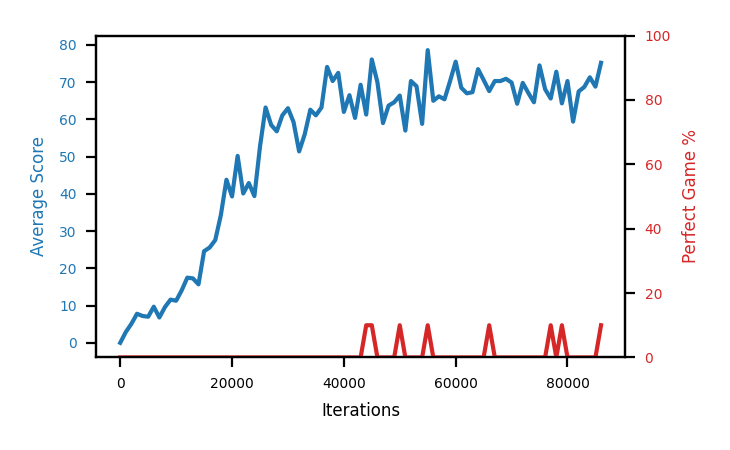
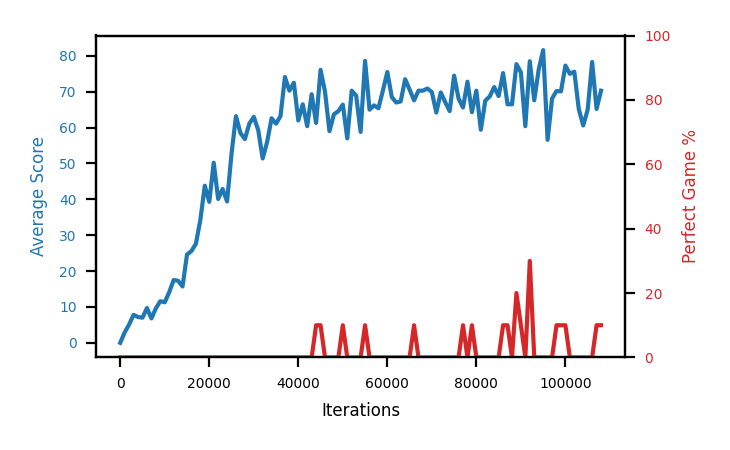
Reassess n-step on trajectory, swap b1b out for baseline and n=2 arms
b1c-nstep3 looked like the clear loser at matched steps and an earlier read
called it that. Judged on trajectory it is the batch best: score by 40k
block runs 5.1, 26.9, 26.8, 37.4, 49.7, 57.3, and at 201k it was still
gaining +10.3 per 20 evals while b1a-base had gone flat at ~69. So n-step is
not worse, it is slower but more consistently improving, which is closer to
what this investigation wants than sprinting to a plateau. It has produced
no perfect game yet, which is the one real mark against it.

Lesson recorded in the doc: do not judge an arm at matched steps alone.
Matched-step comparison is right for fairness but blind to momentum, and
momentum was the signal that mattered.

Stop criteria now encode judging trajectory over level: keep a run while
either perfect rate or score is still climbing, check both because they
disagree, cap promising-but-slow runs near 4 hours and record them as
"promising but too slow" rather than as failures.

Checking both trends decided which arm to stop. b1a-base has a flat score
but a perfect rate still climbing 1.7 -> 3.3, so it is improving on the
actual objective and stays. b1b-tgt200 was rising only slowly on score with
a flat perfect rate and its hypothesis was already answered, so it stopped
at ~104k; it can be resumed with SNEK_TARGET_UPDATE_PERIOD=200.

The human stopped their train run, freeing a second slot. Now running:
b1a-base, b1c-nstep3, b2a-base2 (baseline repeat), b2b-nstep2. n=2 went in
[…]

diff --git a/snek2/hyperparamTuning.md b/snek2/hyperparamTuning.md
@@ -24,6 +24,26 @@ needs roughly **1M iterations / 4-5 hours** of training and then plateaus around
   iterations and then the slope turns steep. A config that looks dead at 20k may
   not be. Do not judge a config on a short run alone.
 
+### When to keep a run going, and when to stop it
+
+Judge on **trajectory, not absolute level**. A run is worth continuing while
+*either* its perfect-game rate *or* its average score is still climbing — both are
+valuable, and a config that is behind but rising may overtake one that plateaued.
+Check both: they can disagree, and have.
+
+Concretely, compare a trailing window against the window before it (last 20 evals
+vs the previous 20 for score, last 30 vs previous 30 for the coarser perfect-game
+rate). Stop an arm when neither is rising, or when its remaining question is
+already answered.
+
+Cap a promising-but-slow run at roughly **4 hours**, then stop it and record it as
+**"promising but too slow"** rather than as a failure — that is a genuinely
+different verdict from "does not learn", and worth keeping distinct.
+
+Stopping is cheap and reversible: relaunching the same policy name continues its
+graph and checkpoint. Always re-supply the same `SNEK_*` overrides when resuming,
+or the config silently changes mid-run.
+
 Because of that, avoid the final eval as a metric. Prefer, in rough order of
 usefulness:
 
@@ -149,10 +169,12 @@ know what is in flight and might have been terminated.
 
 | policy | config change | started | status |
 |---|---|---|---|
-| `train` | human-started, committed defaults | before this work | **running, do not touch** |
-| `b1a-base` | control: committed defaults | 2026-07-26 14:15 | running, target ~120k steps |
-| `b1b-tgt200` | `TARGET_UPDATE_PERIOD=200` | 2026-07-26 14:15 | running, target ~120k steps |
-| `b1c-nstep3` | `N_STEP_UPDATE=3` | 2026-07-26 14:15 | running, target ~120k steps |
+| `train` | human-started, committed defaults | before this work | **stopped by the human ~15:15**, freeing a slot. Do not restart it; it is theirs |
+| `b1a-base` | control: committed defaults | 14:15 | running. Score flat at ~69 since ~50k, but perfect-game rate is still climbing (1.7 -> 3.3), so keep going |
+| `b1c-nstep3` | `N_STEP_UPDATE=3` | 14:15 | running. Slowest arm but the only one with strong score momentum (+10.3 over last 20 evals at 201k). Cap ~18:15, then label "promising but too slow" if still short of the others |
+| `b2a-base2` | baseline repeat #2 | 15:10 | running. Needed to establish baseline spread |
+| `b2b-nstep2` | `N_STEP_UPDATE=2` | 15:16 | running. Took the slot the human freed. Launched now rather than later so it shares machine conditions with `b1c-nstep3` (n=3) and the two are directly comparable |
+| `b1b-tgt200` | `TARGET_UPDATE_PERIOD=200` | 14:15 | **stopped 15:10 at ~104k.** Score rising only slowly (+1.8), perfect rate flat (1.0 -> 1.0), and its hypothesis was already answered. Resume with `SNEK_TARGET_UPDATE_PERIOD=200` if worth revisiting |
 
 That is 4 trainers, i.e. the budget is full — do not launch more until one stops.
 Logs for this batch are in `/Users/tony_wang/.claude/jobs/f3cb1855/tmp/b1{a,b,c}.log`,
@@ -225,7 +247,8 @@ sits in `snek2/` while the artifacts are in `snek2/runs/`.
 
 ![b1b-tgt200](runs/b1b-tgt200.png)
 
-**b1c-nstep3** — slower throughout, no perfect games even by 165k:
+**b1c-nstep3** — slowest to rise and no perfect games yet, but still climbing
+steadily at 200k when the others had flattened:
 
 ![b1c-nstep3](runs/b1c-nstep3.png)
 
@@ -266,12 +289,34 @@ least at this horizon, while "less frequent target updates learn faster early"
 looks worth pursuing. Try 50 and 500 to see whether there's a trend or this is
 noise.
 
-#### `N_STEP_UPDATE=3`: clearly slower per step
+#### `N_STEP_UPDATE=3`: slower per step, but the best trajectory of the batch
 
-Much worse at matched steps, and even after running to 161k (last-5 50.6, peak
-66.3) it stayed below where the baseline was at 68k. It did have the lowest
-drawdown, but that is mostly an artefact of never getting high enough to fall far.
-Deprioritize n-step; if revisited, try n=2 rather than 3.
+At matched steps it looks like the clear loser, and an early read of this batch
+called it exactly that. Judged on trajectory instead it is the most interesting arm
+in the batch. Score by 40k-step block:
+
+| steps | mean score | max |
+|---|---|---|
+| 0-40k | 5.1 | 16.2 |
+| 40-80k | 26.9 | 38.1 |
+| 80-120k | 26.8 | 35.4 |
+| 120-160k | 37.4 | 66.3 |
+| 160-200k | 49.7 | 70.1 |
+| 200-240k | 57.3 | 67.5 |
+
+Near-monotonic, and at 201k it was still gaining +10.3 per 20 evals while
+`b1a-base` had gone flat at ~69. It has produced no perfect game yet, which is the
+one real mark against it.
+
+So n-step is not "worse", it is **slower but more consistently improving** — which
+is arguably closer to what this investigation wants than a config that sprints to a
+plateau. Whether it overtakes the baseline is an open question; that is what the
+4-hour cap is for. If it plateaus below ~70 it is merely slow; if it keeps climbing
+past that it is the most promising lead so far.
+
+Lesson recorded: **do not judge an arm at matched steps alone.** Matched-step
+comparison is right for fairness but blind to momentum, and momentum was the
+signal that mattered here.
 
 #### Neither arm actually showed catastrophic forgetting
 
@@ -330,7 +375,12 @@ commitment.
    perfect games by ~44k, which contradicts the premise of the whole exercise.
    Until the baseline's spread is known, no arm can be judged against it. These
    also test whether the early perfect games reproduce.
-5. **`TARGET_UPDATE_PERIOD=50` and `=500`.** Batch 1 hinted that longer periods
+5. **`N_STEP_UPDATE=2`** — running now as `b2b-nstep2`. n=3 is the batch's best
+   trajectory but too slow to reach a perfect game; n=2 tests whether the stability
+   survives at a faster rate. If n=2 lands between n=1 and n=3 on both speed and
+   steadiness, that is a clean monotonic trend and the knob is real rather than
+   noise. Worth trying n=5 afterwards to find where it turns over.
+6. **`TARGET_UPDATE_PERIOD=50` and `=500`.** Batch 1 hinted that longer periods
    learn faster early even though they didn't reduce drawdown. Two more points
    establish whether that's a trend or noise.
 6. **`LEARNING_RATE=1e-4`** *only after* the target-update fix. Currently 1e-5 is

diff --git a/snek2/runs/b1c-nstep3.md b/snek2/runs/b1c-nstep3.md
@@ -4,7 +4,7 @@
 
 Blue is average score (food eaten) on the left axis, red is perfect-game percentage on the right.
 
-Latest eval: step 188000, avg score 70.1, perfect games 0%.
+Latest eval: step 217000, avg score 54.8, perfect games 0%.
 
 ## Config
 
@@ -34,7 +34,7 @@ Latest eval: step 188000, avg score 70.1, perfect games 0%.
 
 ## Evals
 
-189 evals so far. Full series in [`b1c-nstep3_evals.json`](b1c-nstep3_evals.json).
+218 evals so far. Full series in [`b1c-nstep3_evals.json`](b1c-nstep3_evals.json).
 
 | step | avg score | trailing avg | min score | max score | avg reward | perfect % | epsilon |
 |---|---|---|---|---|---|---|---|
@@ -42,15 +42,15 @@ Latest eval: step 188000, avg score 70.1, perfect games 0%.
 | 1000 | 1.8 | 1.8 | 0 | 5/95 | -1.0 | 0 | 0.4 |
 | 2000 | 0.0 | 0.9 | 0 | 0/95 | -5.005 | 0 | 0.4 |
 | ... | | | | | | | |
-| 177000 | 54.9 | 48.72 | 30 | 80/95 | 49.564 | 0 | 0.001 |
-| 178000 | 44.0 | 46.18 | 20 | 66/95 | 38.743 | 0 | 0.001 |
-| 179000 | 53.8 | 46.9 | 17 | 82/95 | 48.413 | 0 | 0.001 |
-| 180000 | 34.7 | 47.12 | 13 | 57/95 | 29.496 | 0 | 0.001 |
-| 181000 | 61.1 | 49.7 | 20 | 93/95 | 55.567 | 0 | 0.001 |
-| 182000 | 48.0 | 48.32 | 22 | 84/95 | 42.645 | 0 | 0.001 |
-| 183000 | 48.6 | 49.24 | 14 | 74/95 | 43.755 | 0 | 0.001 |
-| 184000 | 58.7 | 50.22 | 30 | 80/95 | 53.676 | 0 | 0.001 |
-| 185000 | 49.2 | 53.12 | 22 | 78/95 | 43.872 | 0 | 0.001 |
-| 186000 | 60.2 | 52.94 | 22 | 87/95 | 54.772 | 0 | 0.001 |
-| 187000 | 49.1 | 53.16 | 16 | 77/95 | 43.757 | 0 | 0.001 |
-| 188000 | 70.1 | 57.46 | 44 | 85/95 | 64.601 | 0 | 0.001 |
+| 206000 | 60.2 | 61.18 | 33 | 95/95 | 65.148 | 10 | 0.001 |
+| 207000 | 57.9 | 60.5 | 15 | 84/95 | 52.496 | 0 | 0.001 |
+| 208000 | 60.6 | 60.6 | 29 | 86/95 | 55.197 | 0 | 0.001 |
+| 209000 | 49.0 | 57.82 | 18 | 72/95 | 43.728 | 0 | 0.001 |
+| 210000 | 60.2 | 57.58 | 28 | 80/95 | 54.837 | 0 | 0.001 |
+| 211000 | 73.6 | 60.26 | 49 | 92/95 | 68.407 | 0 | 0.001 |
+| 212000 | 55.0 | 59.68 | 6 | 78/95 | 49.532 | 0 | 0.001 |
+| 213000 | 67.7 | 61.1 | 44 | 83/95 | 62.144 | 0 | 0.001 |
+| 214000 | 71.7 | 65.64 | 36 | 93/95 | 66.917 | 0 | 0.001 |
+| 215000 | 65.4 | 66.68 | 34 | 82/95 | 59.894 | 0 | 0.001 |
+| 216000 | 71.7 | 66.3 | 48 | 93/95 | 66.201 | 0 | 0.001 |
+| 217000 | 54.8 | 66.26 | 26 | 78/95 | 49.392 | 0 | 0.001 |

diff --git a/snek2/runs/b1b-tgt200.md b/snek2/runs/b1b-tgt200.md
@@ -4,7 +4,7 @@
 
 Blue is average score (food eaten) on the left axis, red is perfect-game percentage on the right.
 
-Latest eval: step 92000, avg score 59.9, perfect games 0%.
+Latest eval: step 106000, avg score 68.7, perfect games 0%.
 
 ## Config
 
@@ -34,7 +34,7 @@ Latest eval: step 92000, avg score 59.9, perfect games 0%.
 
 ## Evals
 
-93 evals so far. Full series in [`b1b-tgt200_evals.json`](b1b-tgt200_evals.json).
+107 evals so far. Full series in [`b1b-tgt200_evals.json`](b1b-tgt200_evals.json).
 
 | step | avg score | trailing avg | min score | max score | avg reward | perfect % | epsilon |
 |---|---|---|---|---|---|---|---|
@@ -42,15 +42,15 @@ Latest eval: step 92000, avg score 59.9, perfect games 0%.
 | 1000 | 1.1 | 1.1 | 0 | 3/95 | -3.915 | 0 | 0.4 |
 | 2000 | 1.8 | 1.45 | 0 | 4/95 | -1.004 | 0 | 0.4 |
 | ... | | | | | | | |
-| 81000 | 58.1 | 59.16 | 34 | 86/95 | 53.068 | 0 | 0.001 |
-| 82000 | 63.2 | 57.24 | 51 | 71/95 | 58.54 | 0 | 0.001 |
-| 83000 | 64.4 | 59.2 | 27 | 89/95 | 59.794 | 0 | 0.001 |
-| 84000 | 73.3 | 63.48 | 38 | 87/95 | 68.529 | 0 | 0.001 |
-| 85000 | 55.7 | 62.94 | 35 | 69/95 | 50.781 | 0 | 0.001 |
-| 86000 | 68.8 | 65.08 | 50 | 93/95 | 64.129 | 0 | 0.001 |
-| 87000 | 66.2 | 65.68 | 55 | 78/95 | 61.125 | 0 | 0.001 |
-| 88000 | 63.6 | 65.52 | 36 | 76/95 | 59.017 | 0 | 0.001 |
-| 89000 | 71.1 | 65.08 | 56 | 81/95 | 66.327 | 0 | 0.001 |
-| 90000 | 70.5 | 68.04 | 41 | 90/95 | 65.444 | 0 | 0.001 |
-| 91000 | 66.8 | 67.64 | 38 | 95/95 | 72.465 | 10 | 0.001 |
-| 92000 | 59.9 | 66.38 | 22 | 86/95 | 55.322 | 0 | 0.001 |
+| 95000 | 65.7 | 66.62 | 26 | 95/95 | 71.099 | 10 | 0.001 |
+| 96000 | 61.5 | 65.56 | 39 | 81/95 | 57.301 | 0 | 0.001 |
+| 97000 | 62.1 | 66.0 | 30 | 89/95 | 57.533 | 0 | 0.001 |
+| 98000 | 50.4 | 61.78 | 23 | 86/95 | 45.076 | 0 | 0.001 |
+| 99000 | 57.2 | 59.38 | 26 | 76/95 | 52.193 | 0 | 0.001 |
+| 100000 | 64.9 | 59.22 | 48 | 95/95 | 69.832 | 10 | 0.001 |
+| 101000 | 64.0 | 59.72 | 48 | 89/95 | 58.991 | 0 | 0.001 |
+| 102000 | 54.8 | 58.26 | 26 | 74/95 | 50.348 | 0 | 0.001 |
+| 103000 | 68.1 | 61.8 | 28 | 89/95 | 64.738 | 0 | 0.001 |
+| 104000 | 60.1 | 62.38 | 22 | 89/95 | 55.512 | 0 | 0.001 |
+| 105000 | 60.8 | 61.56 | 14 | 91/95 | 55.828 | 0 | 0.001 |
+| 106000 | 68.7 | 62.5 | 48 | 92/95 | 64.507 | 0 | 0.001 |

diff --git a/snek2/runs/b1a-base.md b/snek2/runs/b1a-base.md
@@ -4,7 +4,7 @@
 
 Blue is average score (food eaten) on the left axis, red is perfect-game percentage on the right.
 
-Latest eval: step 86000, avg score 75.2, perfect games 10%.
+Latest eval: step 108000, avg score 70.3, perfect games 10%.
 
 ## Config
 
@@ -34,7 +34,7 @@ Latest eval: step 86000, avg score 75.2, perfect games 10%.
 
 ## Evals
 
-87 evals so far. Full series in [`b1a-base_evals.json`](b1a-base_evals.json).
+109 evals so far. Full series in [`b1a-base_evals.json`](b1a-base_evals.json).
 
 | step | avg score | trailing avg | min score | max score | avg reward | perfect % | epsilon |
 |---|---|---|---|---|---|---|---|
@@ -42,15 +42,15 @@ Latest eval: step 86000, avg score 75.2, perfect games 10%.
 | 1000 | 2.9 | 2.9 | 0 | 8/95 | -2.155 | 0 | 0.4 |
 | 2000 | 5.1 | 4.0 | 0 | 12/95 | 0.08 | 0 | 0.4 |
 | ... | | | | | | | |
-| 75000 | 74.5 | 68.04 | 53 | 93/95 | 70.394 | 0 | 0.001 |
-| 76000 | 68.1 | 68.82 | 7 | 91/95 | 64.166 | 0 | 0.001 |
-| 77000 | 65.6 | 67.98 | 36 | 95/95 | 71.279 | 10 | 0.001 |
-| 78000 | 72.8 | 69.12 | 28 | 87/95 | 69.666 | 0 | 0.001 |
-| 79000 | 64.3 | 69.06 | 30 | 95/95 | 69.564 | 10 | 0.001 |
-| 80000 | 70.3 | 68.22 | 48 | 86/95 | 66.771 | 0 | 0.001 |
-| 81000 | 59.4 | 66.48 | 35 | 89/95 | 56.791 | 0 | 0.001 |
-| 82000 | 67.5 | 66.86 | 38 | 85/95 | 63.081 | 0 | 0.001 |
-| 83000 | 68.7 | 66.04 | 42 | 84/95 | 65.183 | 0 | 0.001 |
-| 84000 | 71.3 | 67.44 | 48 | 93/95 | 66.482 | 0 | 0.001 |
-| 85000 | 68.8 | 67.14 | 40 | 91/95 | 64.756 | 0 | 0.001 |
-| 86000 | 75.2 | 70.3 | 53 | 95/95 | 81.556 | 10 | 0.001 |
+| 97000 | 68.1 | 70.02 | 42 | 93/95 | 63.446 | 0 | 0.0 |
+| 98000 | 70.2 | 70.54 | 13 | 95/95 | 76.651 | 10 | 0.0 |
+| 99000 | 70.1 | 69.32 | 52 | 95/95 | 75.407 | 10 | 0.0 |
+| 100000 | 77.3 | 68.46 | 42 | 95/95 | 83.672 | 10 | 0.0 |
+| 101000 | 75.0 | 72.14 | 32 | 93/95 | 71.1 | 0 | 0.0 |
+| 102000 | 75.6 | 73.64 | 53 | 89/95 | 72.047 | 0 | 0.0 |
+| 103000 | 65.2 | 72.64 | 19 | 84/95 | 62.217 | 0 | 0.0 |
+| 104000 | 60.6 | 70.74 | 25 | 86/95 | 57.063 | 0 | 0.0 |
+| 105000 | 65.0 | 68.28 | 46 | 86/95 | 59.852 | 0 | 0.0 |
+| 106000 | 78.3 | 68.94 | 64 | 90/95 | 72.627 | 0 | 0.0 |
+| 107000 | 65.2 | 66.86 | 40 | 95/95 | 70.997 | 10 | 0.0 |
+| 108000 | 70.3 | 67.88 | 26 | 95/95 | 75.912 | 10 | 0.0 |

diff --git a/snek2/runs/b2a-base2.md b/snek2/runs/b2a-base2.md
@@ -1,0 +1,56 @@
+# b2a-base2
+
+![b2a-base2 progress](b2a-base2.png)
+
+Blue is average score (food eaten) on the left axis, red is perfect-game percentage on the right.
+
+Latest eval: step 24000, avg score 54.8, perfect games 0%.
+
+## Config
+
+| setting | value |
+|---|---|
+| policy_name | b2a-base2 |
+| learning_rate | 1e-05 |
+| batch_size | 128 |
+| discount | 0.99 |
+| target_update_period | 8 |
+| target_update_tau | 1.0 |
+| gradient_clipping | none |
+| n_step_update | 1 |
+| initial_epsilon | 0.4 |
+| fc_layer_params | (50, 100, 50) |
+| replay_buffer | cpprb prioritized, capacity 100000 |
+| priority_exponent (alpha) | 0.6 |
+| importance_sampling_beta | 0.4 -> 1.0 over 1000000 steps |
+| initial_populate_steps | 1000 |
+| initialize_with_schmid | False |
+| eval | 10 episodes every 1000 steps |
+| grid | 9x9, max possible score 95 |
+| DEATH_REWARD | -5.0 |
+| FOOD_REWARD | 1.0 |
+| FOOD_DISTANCE_REWARD | 0.001 |
+| eval_only | False |
+
+## Evals
+
+25 evals so far. Full series in [`b2a-base2_evals.json`](b2a-base2_evals.json).
+
+| step | avg score | trailing avg | min score | max score | avg reward | perfect % | epsilon |
+|---|---|---|---|---|---|---|---|
+| 0 | 0.0 | 0.0 | 0 | 0/95 | -5.002 | 0 | 0.4 |
+| 1000 | 0.4 | 0.4 | 0 | 1/95 | -0.153 | 0 | 0.4 |
+| 2000 | 1.1 | 0.75 | 0 | 4/95 | 0.543 | 0 | 0.4 |
+| ... | | | | | | | |
+| 13000 | 14.9 | 14.0 | 10 | 23/95 | 9.866 | 0 | 0.1 |
+| 14000 | 16.2 | 14.28 | 10 | 22/95 | 11.166 | 0 | 0.1 |
+| 15000 | 16.8 | 15.26 | 8 | 24/95 | 11.767 | 0 | 0.1 |
+| 16000 | 18.5 | 16.3 | 13 | 27/95 | 13.887 | 0 | 0.1 |
+| 17000 | 18.7 | 17.02 | 5 | 28/95 | 14.077 | 0 | 0.1 |
+| 18000 | 19.8 | 18.0 | 10 | 27/95 | 15.143 | 0 | 0.1 |
+| 19000 | 26.1 | 19.98 | 11 | 35/95 | 20.985 | 0 | 0.05 |
+| 20000 | 40.2 | 24.66 | 28 | 50/95 | 34.901 | 0 | 0.05 |
+| 21000 | 42.2 | 29.4 | 9 | 68/95 | 37.215 | 0 | 0.05 |
+| 22000 | 52.9 | 36.24 | 7 | 84/95 | 48.231 | 0 | 0.01 |
+| 23000 | 45.2 | 41.32 | 2 | 76/95 | 40.248 | 0 | 0.01 |
+| 24000 | 54.8 | 47.06 | 18 | 80/95 | 49.385 | 0 | 0.01 |

diff --git a/snek2/runs/b2b-nstep2.md b/snek2/runs/b2b-nstep2.md
@@ -1,0 +1,45 @@
+# b2b-nstep2
+
+![b2b-nstep2 progress](b2b-nstep2.png)
+
+Blue is average score (food eaten) on the left axis, red is perfect-game percentage on the right.
+
+Latest eval: step 4000, avg score 5.2, perfect games 0%.
+
+## Config
+
+| setting | value |
+|---|---|
+| policy_name | b2b-nstep2 |
+| learning_rate | 1e-05 |
+| batch_size | 128 |
+| discount | 0.99 |
+| target_update_period | 8 |
+| target_update_tau | 1.0 |
+| gradient_clipping | none |
+| n_step_update | 2 |
+| initial_epsilon | 0.4 |
+| fc_layer_params | (50, 100, 50) |
+| replay_buffer | cpprb prioritized, capacity 100000 |
+| priority_exponent (alpha) | 0.6 |
+| importance_sampling_beta | 0.4 -> 1.0 over 1000000 steps |
+| initial_populate_steps | 1000 |
+| initialize_with_schmid | False |
+| eval | 10 episodes every 1000 steps |
+| grid | 9x9, max possible score 95 |
+| DEATH_REWARD | -5.0 |
+| FOOD_REWARD | 1.0 |
+| FOOD_DISTANCE_REWARD | 0.001 |
+| eval_only | False |
+
+## Evals
+
+5 evals so far. Full series in [`b2b-nstep2_evals.json`](b2b-nstep2_evals.json).
+
+| step | avg score | trailing avg | min score | max score | avg reward | perfect % | epsilon |
+|---|---|---|---|---|---|---|---|
+| 0 | 0.0 | 0.0 | 0 | 0/95 | -5.004 | 0 | 0.4 |
+| 1000 | 0.9 | 0.9 | 0 | 2/95 | -1.467 | 0 | 0.4 |
+| 2000 | 5.1 | 3.0 | 1 | 8/95 | 0.079 | 0 | 0.4 |
+| 3000 | 6.0 | 4.0 | 2 | 14/95 | 0.988 | 0 | 0.4 |
+| 4000 | 5.2 | 4.3 | 2 | 11/95 | 0.183 | 0 | 0.4 |
